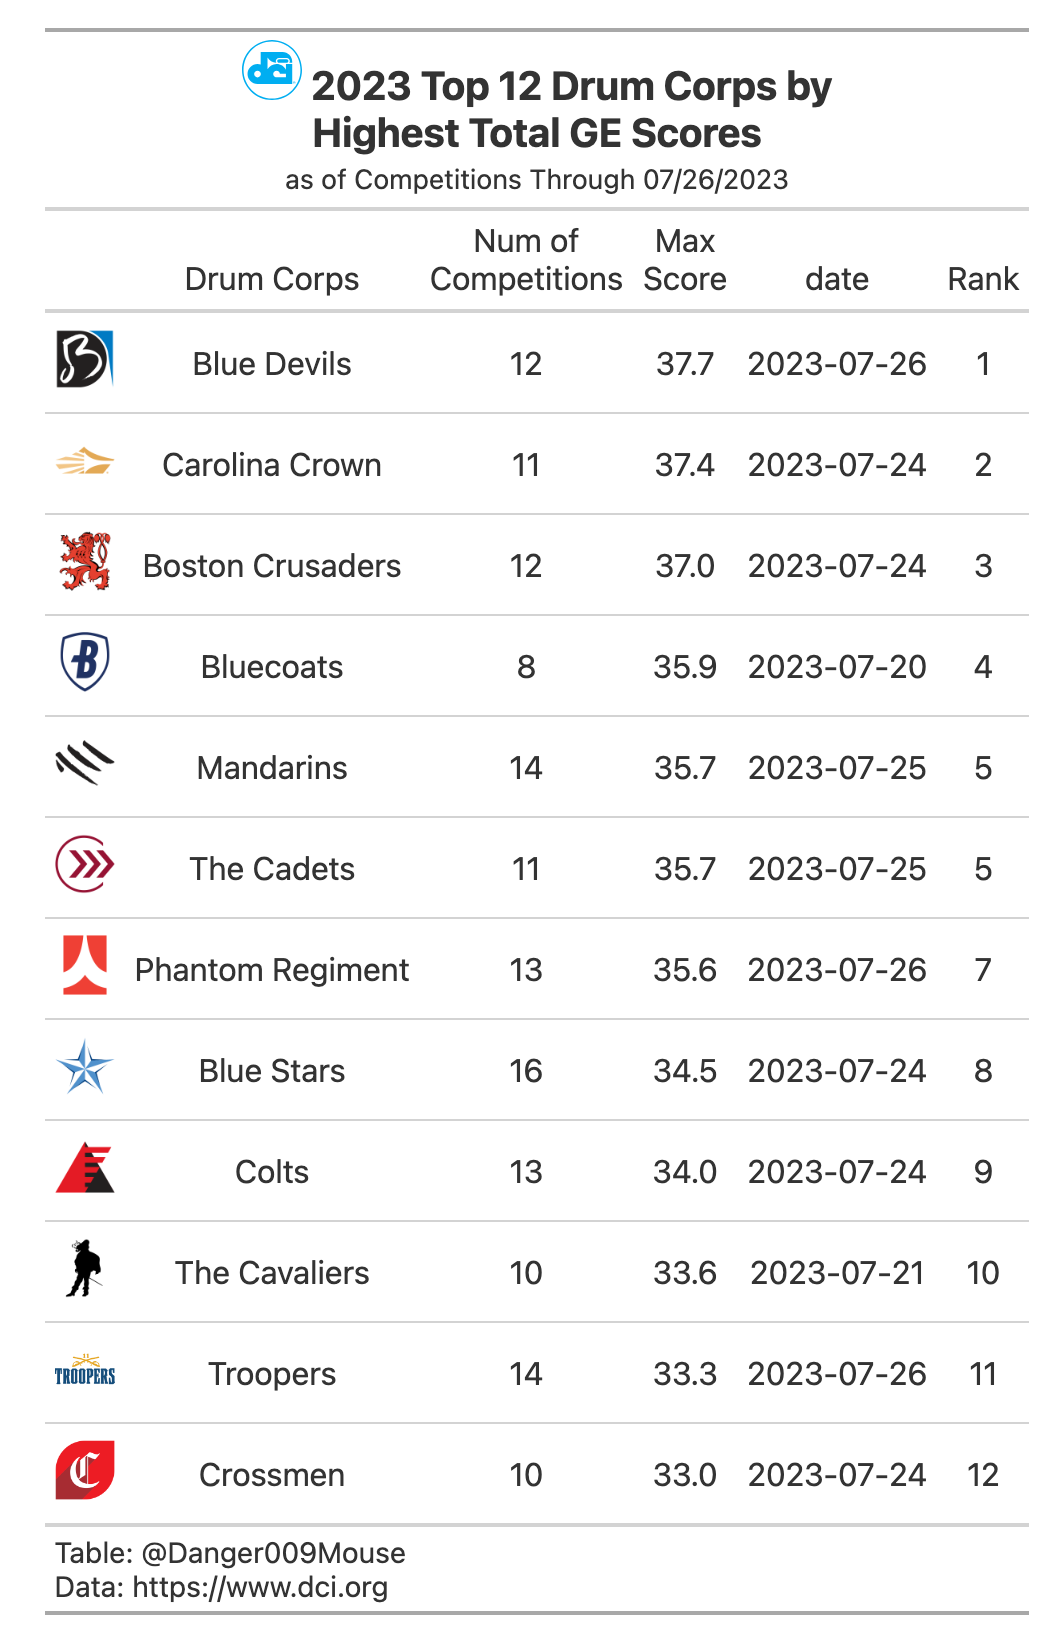
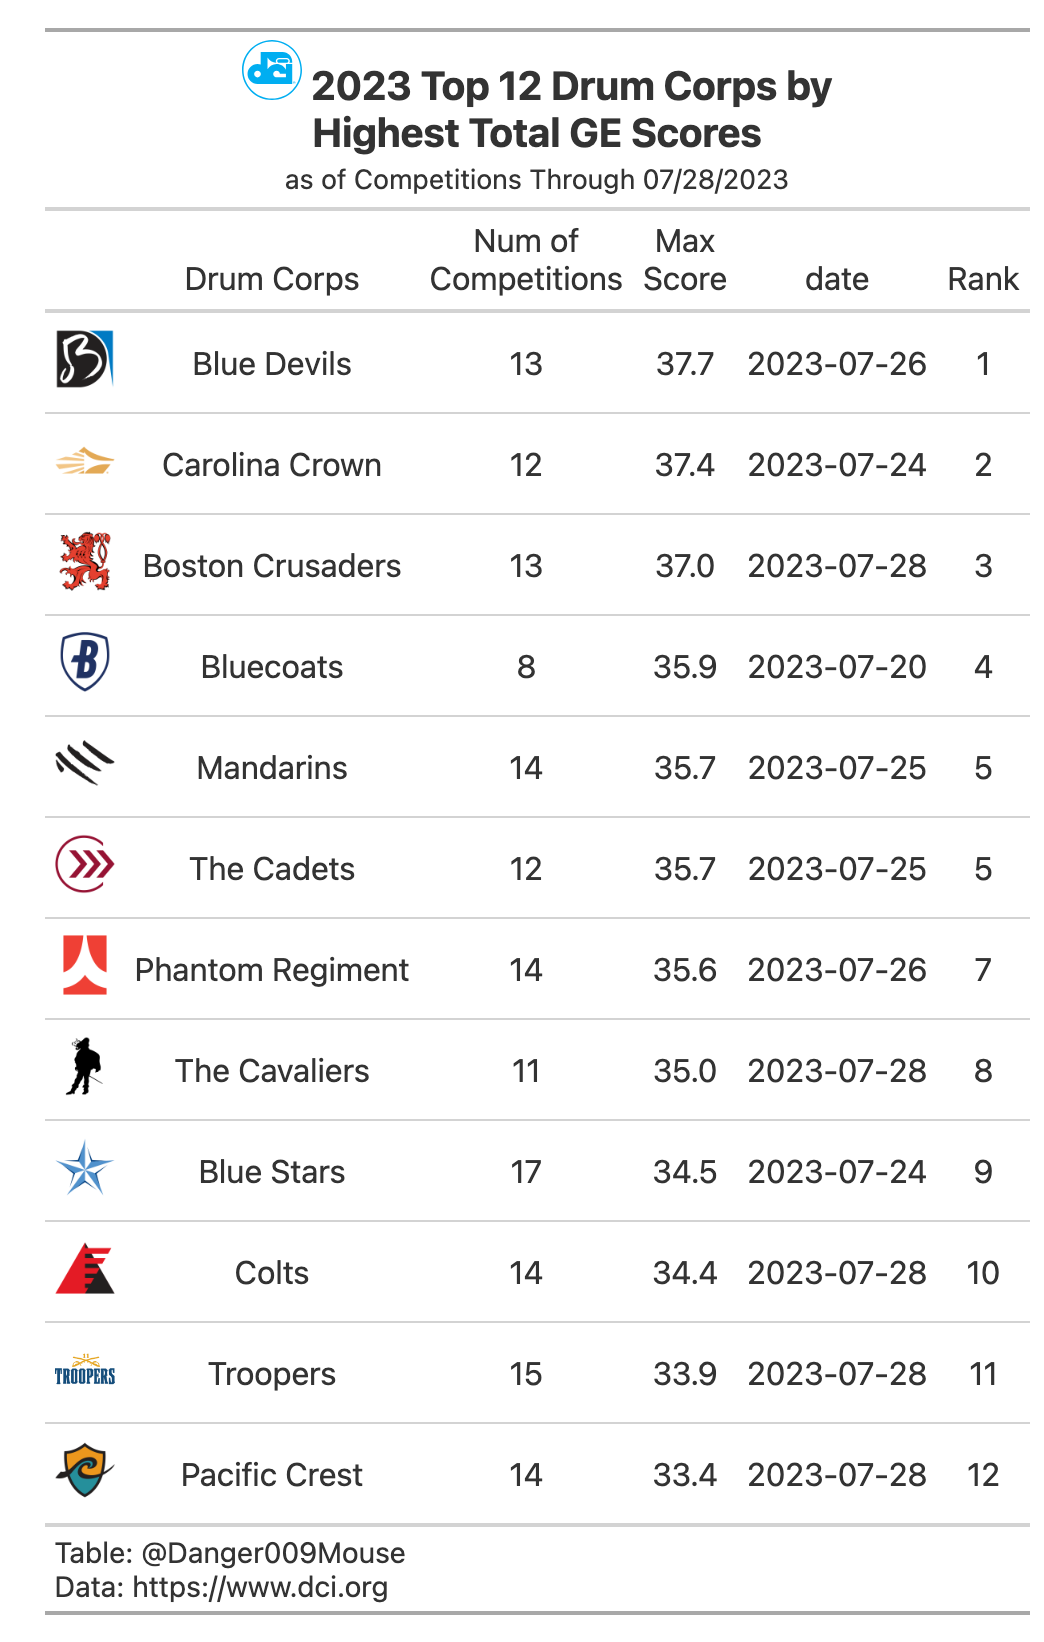
Update scores from 7/29

diff --git a/large-recap-scrape.py b/large-recap-scrape.py
@@ -26,7 +26,7 @@ larger_urls = [
 
 performance_dates = [
  '2023-07-22',
- '2023-07-29',
+ '2023-07-28',
  '2023-08-04',
  '2023-08-05',
  '2023-08-10',
